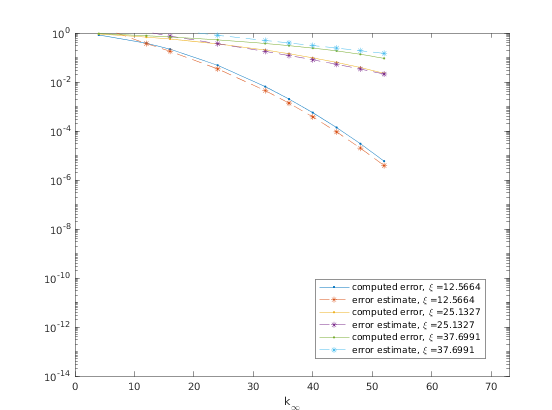
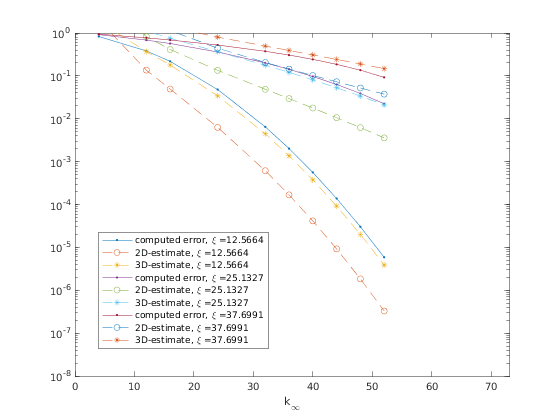
imgs

diff --git a/SE_Stokes_run/SE3P_Stokes/test_file.m b/SE_Stokes_run/SE3P_Stokes/test_file.m
@@ -17,7 +17,7 @@ for n = N_vals
                 fprintf(fileid,'%5i %2.1f %3i %.16g %.16g \n',n,L,x,tol,res);
                 assert(res<tol,'N =%g, xi = %g, L = %f, tol = %g' ,n,x,L,tol)
                 r = [r, res];
-                tt = [tt, SE];
+                tt = [tt, SE+par];
                 tols = [tols, tol];
             end
         end

diff --git a/SE_Stokes_run/SE3P_Stokes/plotscript.m b/SE_Stokes_run/SE3P_Stokes/plotscript.m
@@ -1,0 +1,7 @@
+close all;
+td = load('testdata.txt');
+[td_tols, idx] = sort(td(:,4));
+td_errs = td(idx,5);
+semilogx(flip(td_tols),1:length(td(:,1)),'ro')
+hold on 
+semilogx(flip(td_errs),1:length(td(:,1)),'b*')
